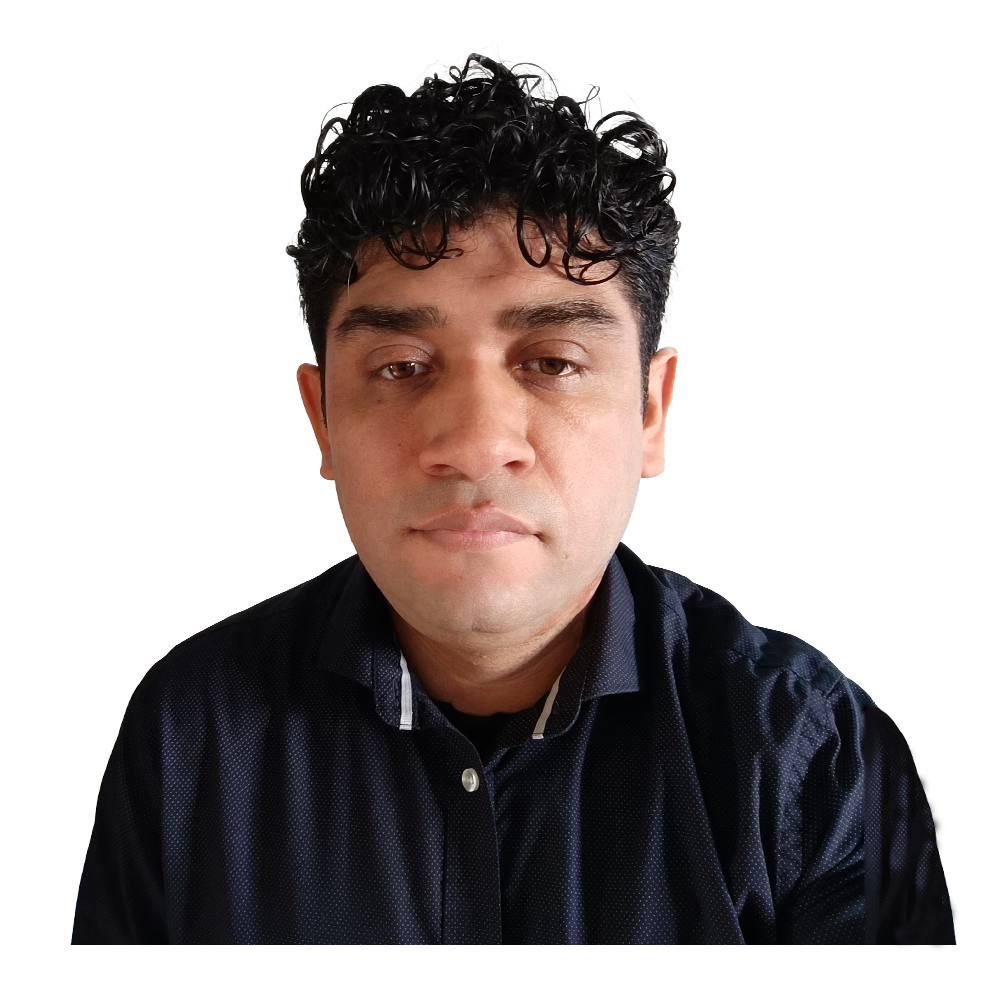
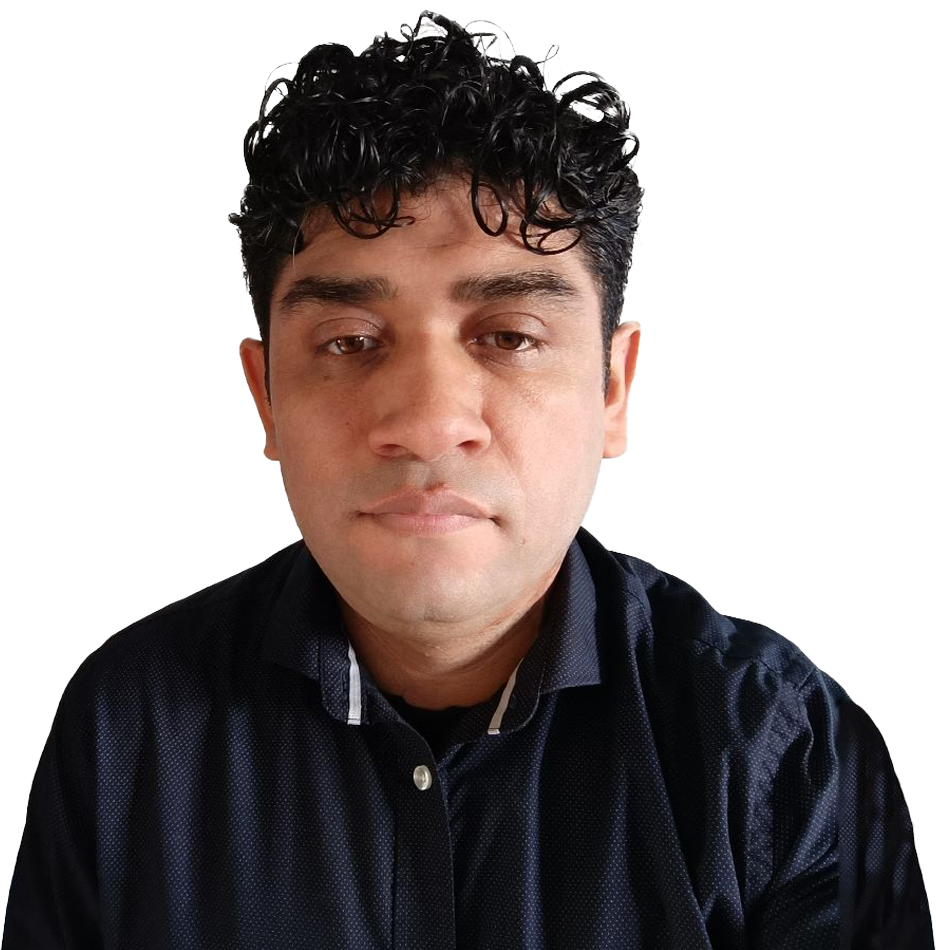
Tablet responsive section

Changed region(s): [[0.0, 0.0, 1.0, 1.0], [0.1859, 0.6105, 0.2479, 0.6411]]

diff --git a/src/components/section/right/right.sass b/src/components/section/right/right.sass
@@ -3,16 +3,22 @@
   display: flex
   flex-direction: column
   justify-content: space-around
-  .right_component
+  margin-top: 50px
+  .rightCard
     display: flex
     flex-direction: column
     border-bottom-width: 1px
     border-style: solid
     border-bottom-color: #ffffff19
+    padding-bottom: 20px
+    .rightComponent
+      display: flex
+      flex-direction: column
+      padding: 0 10px
     h2
       margin-top: 20px
       margin-bottom: 16px
-      font-size: var(--font-size-side-title)
+      font-size: 16px
       font-weight: var(--font-weight-bold)
       letter-spacing: 2px
     p
@@ -21,14 +27,17 @@
       font-size: var(--font-size-side-subtitle)
       font-weight: var(--font-weight-regular)
       line-height: 27px
-      white-space: pre-line
+
     .link
       width: fit-content
       button
-        margin: 5px 0 10px
+        margin: 2px 0 10px
         text-align: start
         background-color: #ffffff00
         color: var(--font-color)
+        font-size: 16px
+        word-spacing: 3px
+        letter-spacing: 1.5px
       .line
         width: 100%
         height: 2px
@@ -46,11 +55,42 @@
       width: 80%
       display: flex
       flex-direction: row
-      justify-content: space-between
       margin-top: 10px
-  // .socials
-  //   display: flex
-  //   margin-top: 10px
+      a
+        margin: 0 12px
+
+@media (min-width: 480px )
+  .right
+    .rightCard
+      flex-direction: row
+      .rightComponent
+        width: 50%
+        p
+          vertical-align: text-top
+        .link
+          height: 100%
+          display: flex
+          flex-direction: column
+          justify-content: flex-end
+
+@media (min-width: 768px)
+  .right
+    width: 50%
+    margin: 0
+    .rightCard
+      flex-direction: column
+      .rightComponent
+        width: 100%
+        justify-content: flex-start
+        h2
+          font-size: 18px
+          margin: 0
+    .socials
+      .links
+        margin-top: 40px
+        a
+          margin: 0 19px
+    // background-color: red
 //@media (min-width: 771)
 // .right
 //   width: 35%

diff --git a/src/components/section/right/Right.jsx b/src/components/section/right/Right.jsx
@@ -9,7 +9,8 @@ import { FaTwitter } from "react-icons/fa6";
 const Right = () => {
   return (
     <div className="right">
-      <RightComponent
+      <div className="rightCard">
+        <RightComponent
         componentTitle="SOBRE MI"
         componentInfo="Cuento con experiencia en diseño y creacion web. Ofrezco soluciones
         creativas y eficientes que se ajustan a necesidades específicas."
@@ -20,23 +21,25 @@ const Right = () => {
         componentInfo="He trabajado en el desarrollo de tiendas online y sitios web corporativos. Entre mis trabajos destacan Marticar Roller, Ryslogistica.cl, Arbass.cl, utilizando WordPress, Elementor, WooCommerce."
         componentButton="VER PORTAFOLIO"
       />
+      </div>
+      
       <div className="socials">
         <h2>SIGUEME</h2>
         <div className="links">
           <a href="https://www.github.com/Ariel-Plaza/" target="_blank">
-            <FaGithub size={25} />
+            <FaGithub size={35} />
           </a>
           <a href="https://www.linkedin.com/in/arielplazas" target="_blank">
-            <FaLinkedin size={25} />
+            <FaLinkedin size={35} />
           </a>
           <a href="https://www.instagram.com/arielplaza/" target="_blank">
-            <FaInstagram size={25} />
+            <FaInstagram size={35} />
           </a>
           <a href="https://www.facebook.com/ariel.plazasalinas" target="_blank">
-            <FaFacebook size={25} />
+            <FaFacebook size={35} />
           </a>
           <a href="https://www.twitter.com/ArielPlaza_s" target="_blank">
-            <FaTwitter size={25} />
+            <FaTwitter size={35} />
           </a>
         </div>
       </div>

diff --git a/src/components/section/left/left.sass b/src/components/section/left/left.sass
@@ -1,22 +1,25 @@
 .left
   width: 100%
-  height: 300px
   display: flex
   flex-direction: column
-  justify-content: center
+  justify-content: space-evenly
   .lineUp
-    width: 100px
+    width: 130px
     height: 3px
-    margin-bottom: 20px
-    background-color: var(--font-color)
+    margin: 20px 0
+    background-color: #ffffff5f
   h1
     font-size: 34px
     font-weight: var(--font-weight-bold)
-    line-height: 100%
+    line-height: 40px
     color: var(--font-color)
   p
-    font-size: 16px
+    font-size: 17px
     font-weight: var(--font-weight-regular)
+    color: var(--bg-card-upper)
+    line-height: 30px
+    word-spacing: 1.5px
+    letter-spacing: 0.5px
   .circle
     width: 60px
     height: 60px
@@ -25,7 +28,6 @@
         width: 28px
         height: 28px
         color: white
-    // margin-top: 80px
     .arrow
       animation-name: move
       animation-duration: 2s
@@ -37,16 +39,38 @@
   0%,
   100%
     transform: translateY(0)
-
   45%
     transform: translateY(-10px)
-
   75%
     transform: translateY(15px)
-
   90%
     transform: translateY(0px)
 
+@media (min-width: 480px )
+.left
+  .circle
+    width: 75px
+    height: 75px
+    .arrow
+      img
+        width: 40px
+        height: 40px
+
+@media (min-width: 768px )
+  .left
+    width: 50%
+    height: 665px
+    justify-content: flex-start
+    .lineUp
+      height: 8px
+      margin: 0 0 48px
+    h1
+      font-size: 58px
+      line-height: 65px
+      margin-bottom: 10px
+    p
+      font-size: 18px
+      margin-bottom: 45px
 // @media (min-width: 771)
 //   .left
 //     width: 60%

diff --git a/src/components/section/picturebg.sass b/src/components/section/picturebg.sass
@@ -1,14 +1,39 @@
+.containerPicture
+  width: 100%
+  .pictureBg
+    display: flex
+    justify-content: center
+    margin-top: 30px
+    img
+      width: 95%
+@media (min-width: 480px )
+  .containerPicture
+    .pictureBg
+      img
+        width: 60%
+@media (min-width: 768px)
+  .containerPicture
+    width: 90%
+    margin: auto
+    .pictureBg
+      margin-top: -250px
+      justify-content: normal
+@media (min-width: 906px)
+  .containerPicture
+    .pictureBg
+      margin-top: -307px
+  //*** estructura desktop
 // .picture-bg
 //   position: absolute
 //   top: 43px
-//   // width: 100%
-//   // height: 100%
-//   // z-index: 0
-//   // overflow: hidden  
-//   // display: flex
-//   // justify-content: center
-//   // bottom: 0px
-//   // left: 0
+//   width: 100%
+//   height: 100%
+//   z-index: 0
+//   overflow: hidden  
+//   display: flex
+//   justify-content: center
+//   bottom: 0px
+//   left: 0
 //   right: 35px
 
 //   img

diff --git a/src/components/section/left/Left.jsx b/src/components/section/left/Left.jsx
@@ -4,12 +4,12 @@ import iconarrow from "../../../assets/icons/down.png"
 const Left = () => {
   return (
     <div className="left">
-      
-      <h1>Soy Ariel,<br />
+      <div className="lineUp"></div>
+      <h1>Soy Ariel,
         Diseñador Web</h1>
       <p>
         Un apasionado desarrollador web freelance, listo para convertir tus
-        ideas en realidad.
+        ideas en realidad. Aplicando tecnologias modernas.
       </p>
       <ButtonIcon
         icon={iconarrow}

diff --git a/src/components/section/index.sass b/src/components/section/index.sass
@@ -1,16 +1,21 @@
 .section
   width: 100%
+  height: 100%
+  margin-top:50px 
   .container
-    width: 80%
+    width: 90%
     display: flex
     flex-direction: column
     margin: auto
 
+@media (min-width: 768px )
+  .section
+    .container
+      flex-direction: row
+      gap: 10px
 
+@media (min-width: 768px )
 
-@media (min-width: 425px )
-
-@media (min-width: 771px )
 // .section
 //   max-width: 1220px
 //   height: 920px

diff --git a/src/components/section/PictureBg.jsx b/src/components/section/PictureBg.jsx
@@ -4,8 +4,10 @@ import picture from "../../assets/img/perfil.png";
 
 const PictureBg = () => {
   return (
-    <div className="picture-bg">
-      <img src={picture} alt="Ariel Plaza" />
+    <div className="containerPicture">
+      <div className="pictureBg">
+        <img src={picture} alt="Ariel Plaza" />
+      </div>
     </div>
   );
 };

diff --git a/src/components/section/right/Rsection.jsx b/src/components/section/right/Rsection.jsx
@@ -1,6 +1,6 @@
 export function RightComponent ({componentTitle, componentInfo, componentButton}) {
   return (
-    <div className="right_component">
+    <div className="rightComponent">
       <h2>{componentTitle}</h2>
       <p>{componentInfo}</p>
       <div className="link">

diff --git a/src/styles/style.css b/src/styles/style.css
@@ -107,6 +107,7 @@ em {
   color: inherit;
 }
 
+
 body {
   background-color: var(--main-background);
   font-size: 100%;
@@ -116,4 +117,10 @@ body {
 
 .fa {
   line-height: 1;
+}
+body,
+html {
+  margin: 0;
+  padding: 0;
+  overflow-x: hidden;
 }

diff --git a/src/components/section/index.jsx b/src/components/section/index.jsx
@@ -11,7 +11,7 @@ const Section = () => {
         <div className="center"></div>
         <Right />
       </div>
-      {/* <PictureBg /> */}
+      <PictureBg />
     </div>
   );
 };
